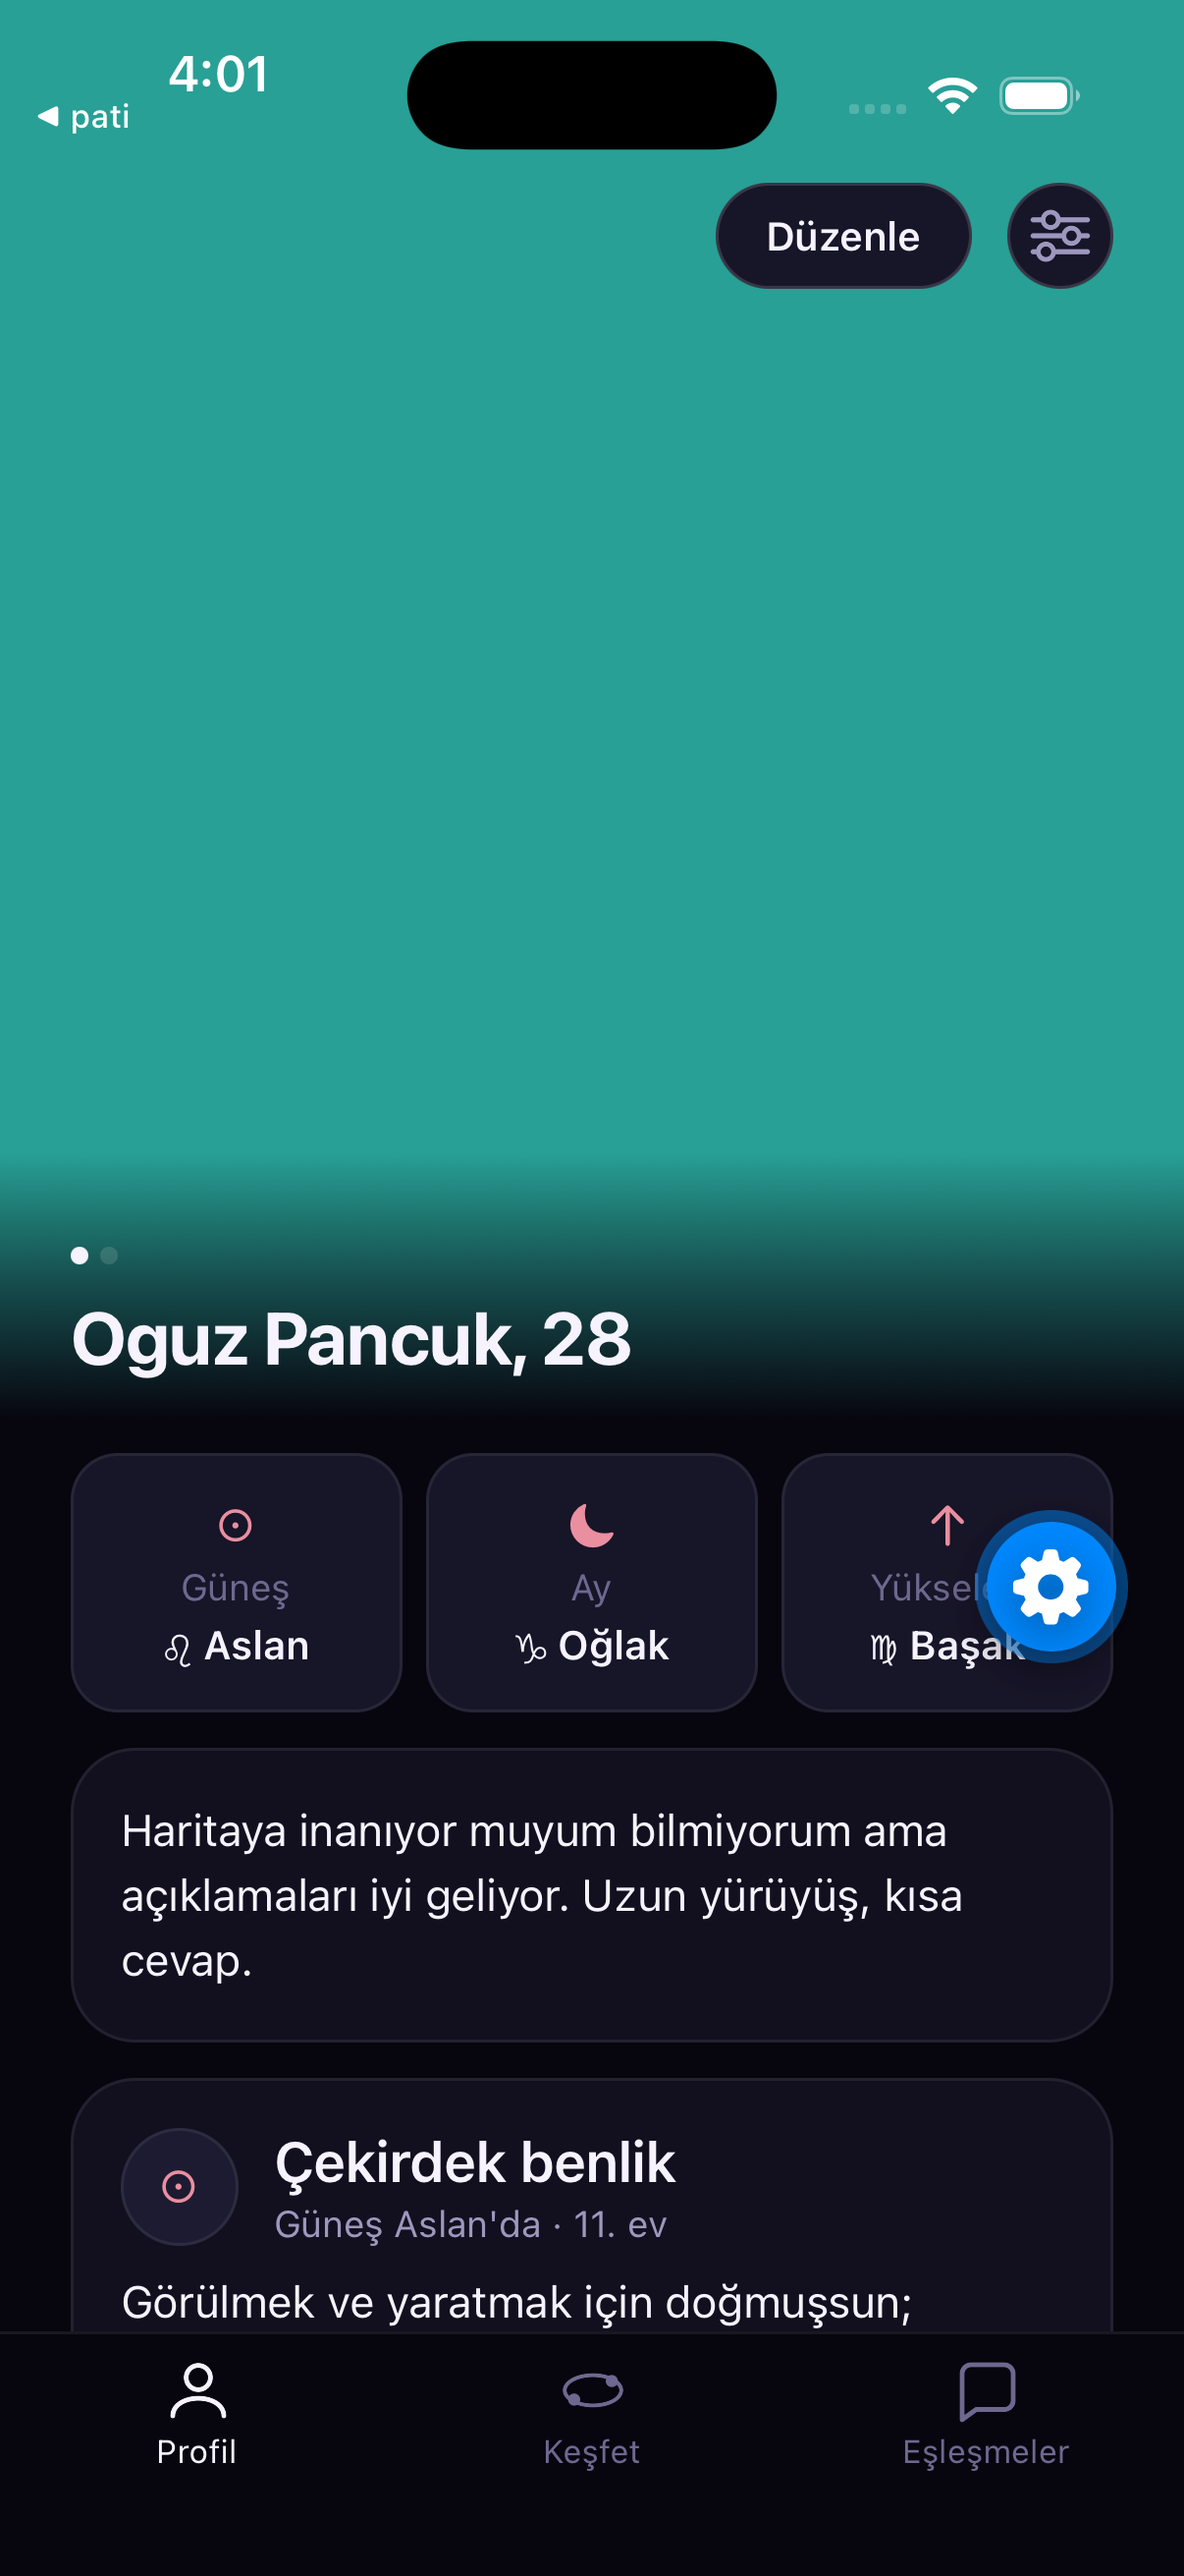
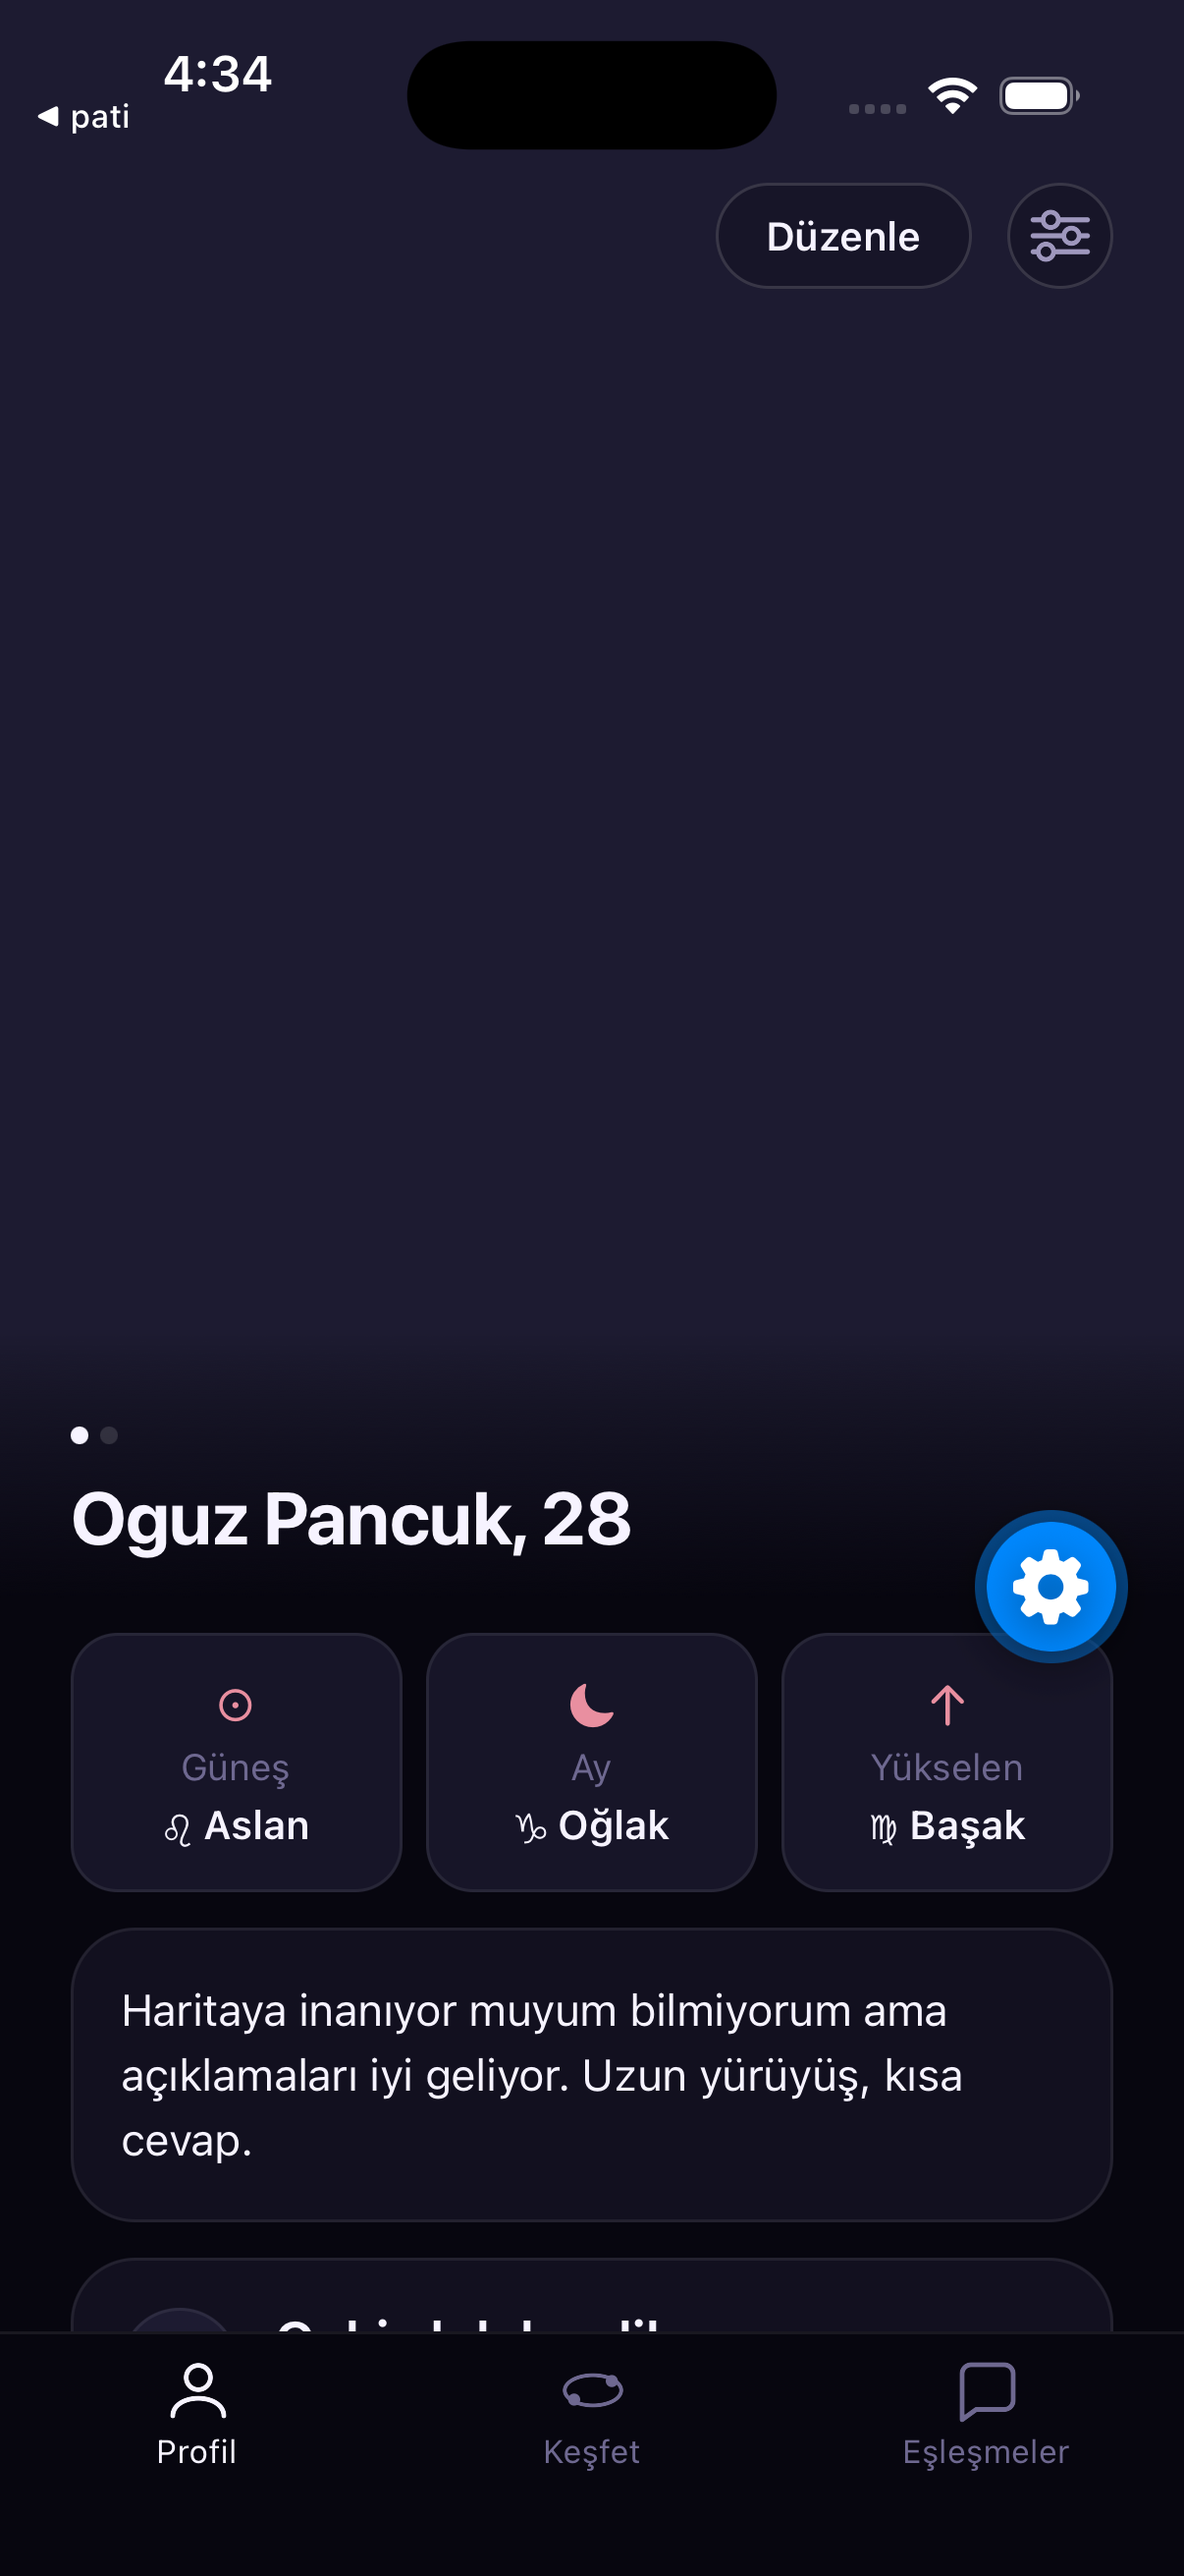
feat(mobile): the deck's two pills become two glyphs on the photo
The owner did not like the pills and asked for round text-free buttons in
the corner of the picture. Two 44pt circles, bottom right.

Designed around one hazard: they sit a few points above the filled X and
heart, and four circles of similar size on one screen read as four peers,
two of which decide something irreversible. So the pair is smaller,
outlined and translucent rather than filled, and lives on the photo
rather than on the background — the same separation the card already
makes between looking closer and answering.

Icon-only costs guessability, so neither glyph is invented: the reading
button is the BandMeter the card shows a few points below, shrunk, and
the person button is the profile tab's own head and shoulders. Both keep
the pills' words as their accessibility label.

The name's gradient is absolutely positioned across the bottom of the
photo and was painted over them, so it ate the first tap. It is
decoration plus a name, so it is pointerEvents none now and the buttons
render after it — the property ProfileView's own scrim has had since it
was written, and the deck's copy never needed until something sat under
it.

With the pills gone the card had about 68pt of slack, so
PHOTO_SCREEN_FRACTION goes 0.55 to 0.62 and the photo takes it. The
profile follows the same constant, so the two still end on one line.

diff --git a/apps/mobile/app/(tabs)/(discover)/discover.tsx b/apps/mobile/app/(tabs)/(discover)/discover.tsx
@@ -23,6 +23,7 @@ import {
 } from '@/lib/discover';
 import { LinearGradient } from 'expo-linear-gradient';
 import { BigThreeRow } from '@/components/BigThreeRow';
+import { CardIcon } from '@/components/CardIcon';
 import { CompatibilityDetail } from '@/components/CompatibilityDetail';
 import { BandMeter } from '@/components/Meter';
 import { Popup } from '@/components/Popup';
@@ -364,6 +365,37 @@ export default function Discover() {
                   : `${current.row.distance_km} km`}
               </Text>
             </LinearGradient>
+            {/* In the corner of the picture, not a row of their own
+                (owner, 2026-09-14). Small, outlined and translucent on
+                purpose: the filled ✕ and ♥ below decide something, these
+                two only open a sheet, and four equal circles would invite
+                the wrong one. */}
+            <View style={styles.cardActions}>
+              <Pressable
+                testID="open-detail"
+                accessibilityRole="button"
+                accessibilityLabel={t.discover.detail}
+                style={({ pressed }) => [
+                  styles.cardAction,
+                  pressed && styles.buttonBusy,
+                ]}
+                onPress={() => setSheet({ id: current.row.id, of: 'detail' })}
+              >
+                <CardIcon name="reading" />
+              </Pressable>
+              <Pressable
+                testID="open-person"
+                accessibilityRole="button"
+                accessibilityLabel={t.discover.openProfile}
+                style={({ pressed }) => [
+                  styles.cardAction,
+                  pressed && styles.buttonBusy,
+                ]}
+                onPress={() => setSheet({ id: current.row.id, of: 'person' })}
+              >
+                <CardIcon name="person" />
+              </Pressable>
+            </View>
             {/* The verdict as it forms, for sighted eyes only: the round
                 buttons below are the accessible way to the same thing. */}
             <Animated.View
@@ -398,36 +430,6 @@ export default function Discover() {
             </Animated.View>
           </View>
           <View style={styles.info}>
-            {/* Directly under the name on the photo (owner, 2026-09-14):
-                the two ways to look closer, before the chart itself. */}
-            <View style={styles.pills}>
-              <Pressable
-                testID="open-detail"
-                accessibilityRole="button"
-                style={styles.pill}
-                onPress={() => setSheet({ id: current.row.id, of: 'detail' })}
-              >
-                <Text
-                  style={styles.pillText}
-                  maxFontSizeMultiplier={MAX_DECK_SCALE}
-                >
-                  {t.discover.detail}
-                </Text>
-              </Pressable>
-              <Pressable
-                testID="open-person"
-                accessibilityRole="button"
-                style={styles.pill}
-                onPress={() => setSheet({ id: current.row.id, of: 'person' })}
-              >
-                <Text
-                  style={styles.pillText}
-                  maxFontSizeMultiplier={MAX_DECK_SCALE}
-                >
-                  {t.discover.openProfile}
-                </Text>
-              </Pressable>
-            </View>
             <BigThreeRow
               three={current.row.big_three}
               maxFontSizeMultiplier={MAX_DECK_SCALE}
@@ -672,6 +674,27 @@ const styles = StyleSheet.create({
   },
   cardPhoto: { position: 'absolute', top: 0, left: 0, right: 0, bottom: 0 },
   info: { paddingHorizontal: space.lg, paddingTop: space.sm, gap: space.sm },
+  // Above the name's own line, hard against the right gutter, so the two
+  // never crowd a long name. The photo under them is still the swipe
+  // surface: a drag that starts here passes to the card, because the
+  // responder claims on movement and a Pressable only acts on a release.
+  cardActions: {
+    position: 'absolute',
+    right: space.lg,
+    bottom: space.xxl,
+    flexDirection: 'row',
+    gap: space.md,
+  },
+  cardAction: {
+    width: 44,
+    height: 44,
+    borderRadius: radius.pill,
+    borderWidth: 1,
+    borderColor: color.borderStrong,
+    backgroundColor: color.scrim,
+    alignItems: 'center',
+    justifyContent: 'center',
+  },
   footer: { paddingHorizontal: space.lg, gap: space.sm },
   photoScrim: {
     position: 'absolute',
@@ -682,6 +705,9 @@ const styles = StyleSheet.create({
     paddingTop: space.xxl,
     paddingBottom: space.sm,
     gap: 2,
+    // Paint only. It overlaps the two corner buttons, and a gradient
+    // with a name in it must not be what a finger lands on.
+    pointerEvents: 'none',
   },
   name: { ...type.title, color: color.text },
   distance: { ...type.bodySmall, color: color.textMuted },
@@ -724,23 +750,6 @@ const styles = StyleSheet.create({
     color: color.textMuted,
     textAlign: 'center',
     paddingVertical: space.sm,
-  },
-  pills: { flexDirection: 'row', gap: space.sm, marginTop: space.xs },
-  pill: {
-    flex: 1,
-    backgroundColor: color.surfaceSoft,
-    borderRadius: radius.pill,
-    borderWidth: 1,
-    borderColor: color.borderStrong,
-    paddingVertical: space.md,
-    paddingHorizontal: space.sm,
-    alignItems: 'center',
-  },
-  pillText: {
-    ...type.body,
-    color: color.text,
-    fontWeight: '600',
-    textAlign: 'center',
   },
   popupBand: { flexDirection: 'row', alignItems: 'center', gap: space.md },
   error: { ...type.bodySmall, color: color.danger, textAlign: 'center' },

diff --git a/apps/mobile/components/CardIcon.tsx b/apps/mobile/components/CardIcon.tsx
@@ -1,0 +1,54 @@
+import Svg, { Circle, Path, Rect } from 'react-native-svg';
+import { color } from '@/theme/tokens';
+
+/**
+ * The two glyphs the deck card carries in the corner of its photo, drawn
+ * in the same language as `TabIcon`: stroked, never filled, 24 square.
+ *
+ * `reading` is the band meter the card already shows a few points below,
+ * shrunk to an icon — the same three ascending bars, so the button and
+ * the thing it opens are recognisably one idea. `person` is the profile
+ * tab's own head and shoulders, for the same reason.
+ */
+export type CardIconName = 'reading' | 'person';
+
+export function CardIcon({ name }: { name: CardIconName }) {
+  return (
+    <Svg width={22} height={22} viewBox="0 0 24 24">
+      {name === 'reading' ? (
+        <>
+          {/* Ascending, like BandMeter: the shortest is the lit one. */}
+          <Rect x={4} y={14} width={4} height={6} rx={1.6} fill={color.pink} />
+          <Rect
+            x={10}
+            y={10}
+            width={4}
+            height={10}
+            rx={1.6}
+            fill={color.text}
+          />
+          <Rect x={16} y={5} width={4} height={15} rx={1.6} fill={color.text} />
+        </>
+      ) : (
+        <>
+          <Circle
+            cx={12}
+            cy={8}
+            r={3.8}
+            stroke={color.text}
+            strokeWidth={1.8}
+            fill="none"
+          />
+          <Path
+            d="M4 20c0-3.3 3.6-5.5 8-5.5s8 2.2 8 5.5"
+            stroke={color.text}
+            strokeWidth={1.8}
+            strokeLinecap="round"
+            strokeLinejoin="round"
+            fill="none"
+          />
+        </>
+      )}
+    </Svg>
+  );
+}

diff --git a/apps/mobile/components/ui.tsx b/apps/mobile/components/ui.tsx
@@ -41,7 +41,7 @@ export const SCREEN_TOP_PADDING = 68;
  * The two popup sheets are not in this: they are 88% of the screen tall
  * and keep the picture's own 3:4.
  */
-export const PHOTO_SCREEN_FRACTION = 0.55;
+export const PHOTO_SCREEN_FRACTION = 0.62;
 
 /**
  * What a host owes its first child if that child takes the top edge.

diff --git a/docs/NOTES.md b/docs/NOTES.md
@@ -3965,3 +3965,32 @@ applies. The app adds nothing to it — `tabBarStyle` sets only colours and
 the top border. Trimming it means overriding the bar's height and letting
 the labels sit closer to the indicator, which is a taste call and is
 therefore parked rather than taken.
+
+## 2026-09-14 — the deck's two pills became two glyphs
+
+The owner did not like the pills and proposed two round text-free buttons
+in the corner of the photo. Taken, with one thing designed around: two
+unlabelled circles sit a few points above the filled ✕ and ♥, and four
+circles of similar size on one screen would read as four peers — two of
+which decide something irreversible. So the pair is smaller (44 against
+62), outlined and translucent rather than filled, and lives _on_ the
+picture rather than on the background, which is the same separation the
+card already makes between "look closer" and "answer".
+
+Icon-only costs guessability, so neither glyph is invented: the reading
+button is the `BandMeter` the card shows a few points below, shrunk, and
+the person button is the profile tab's own head and shoulders. Both carry
+an `accessibilityLabel` with the words the pills used to show.
+
+One real bug on the way, worth the note because it will recur: the
+buttons did nothing on the first run. The name's gradient is absolutely
+positioned across the bottom of the photo and was painted after them, so
+it took the touch. It is decoration plus a name, so it is now
+`pointerEvents: 'none'` and the buttons render after it. `ProfileView`'s
+own scrim had had that property since the day it was written; the deck's
+copy never did, because until now nothing sat under it.
+
+With the pills gone the card had about 68pt of slack between the band and
+the ✕ / ♥, so `PHOTO_SCREEN_FRACTION` went 0.55 → 0.62 and the photo took
+it. The profile follows the same constant, so the two still end on the
+same line.

diff --git a/docs/ROADMAP.md b/docs/ROADMAP.md
@@ -1146,9 +1146,15 @@ other.
       the fly-out and the responder are untouched — but four comments
       that described the ancestor scroll view were rewritten rather than
       left lying._
-      **Amended the same day, on the owner's further look:** the two pills
-      moved from the foot of the screen to directly under the name, where
-      they read as the two ways to look closer before the chart itself;
+      **Amended twice the same day, on the owner's further looks.** The
+      two pills first moved from the foot of the screen to directly under
+      the name, and then stopped being pills at all: they are two 44pt
+      circles in the bottom-right corner of the photo, drawn rather than
+      labelled — a shrunken band meter for the reading and the profile
+      tab's own head and shoulders for the person, so each button looks
+      like the thing it opens. Small, outlined and translucent against the
+      filled ✕ and ♥ below, because four equal circles on one screen would
+      invite the wrong one. The photo grew into the row they vacated;
       the aspect sentence ("Satürn'ün onun Mars'ıyla üçgen açı yapıyor")
       and the remaining-count both left the card, taking
       `t.discover.noAspectWhy` and `t.discover.remaining` with them. ✕ / ♥
